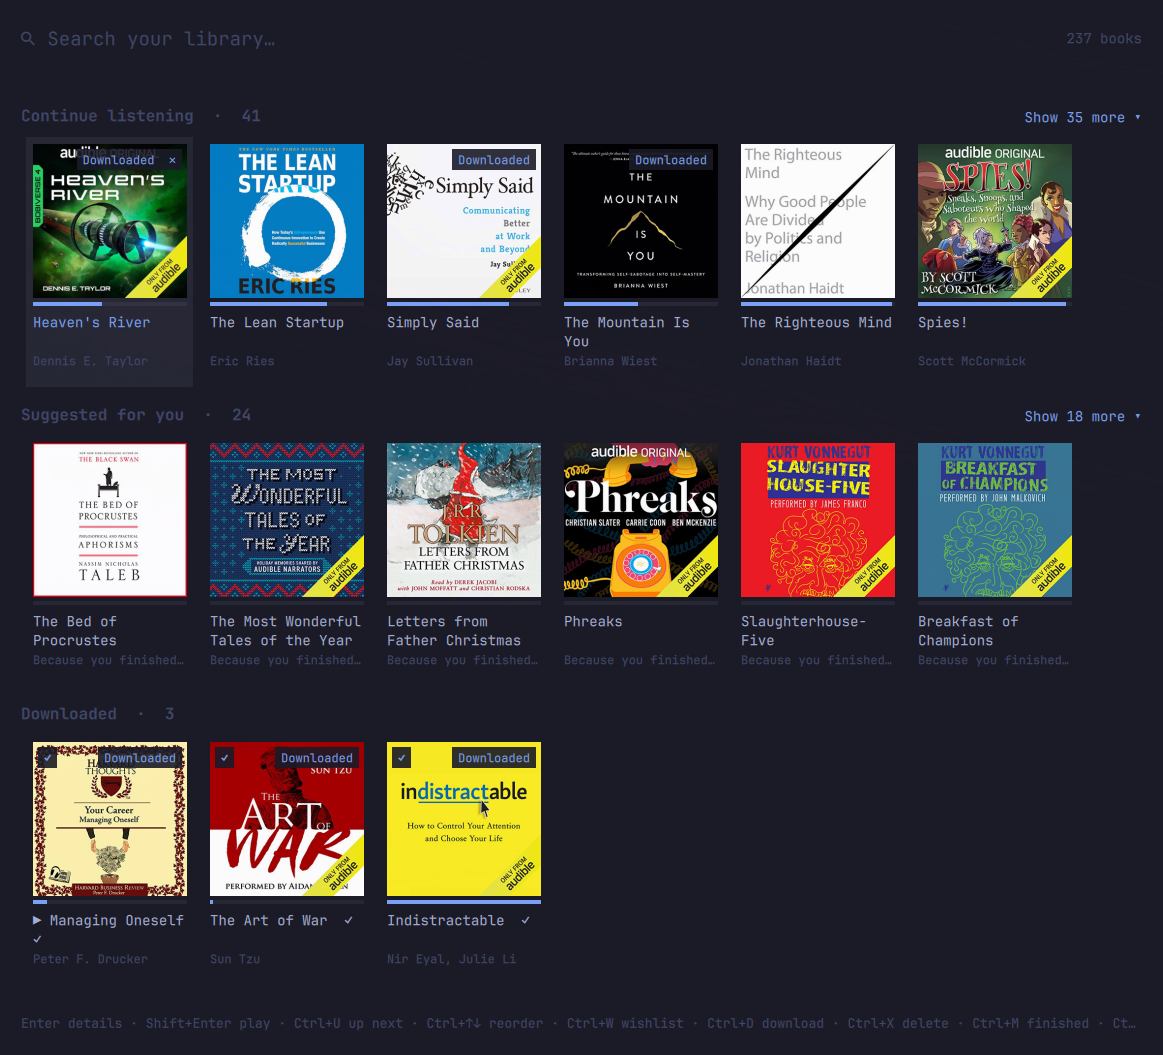
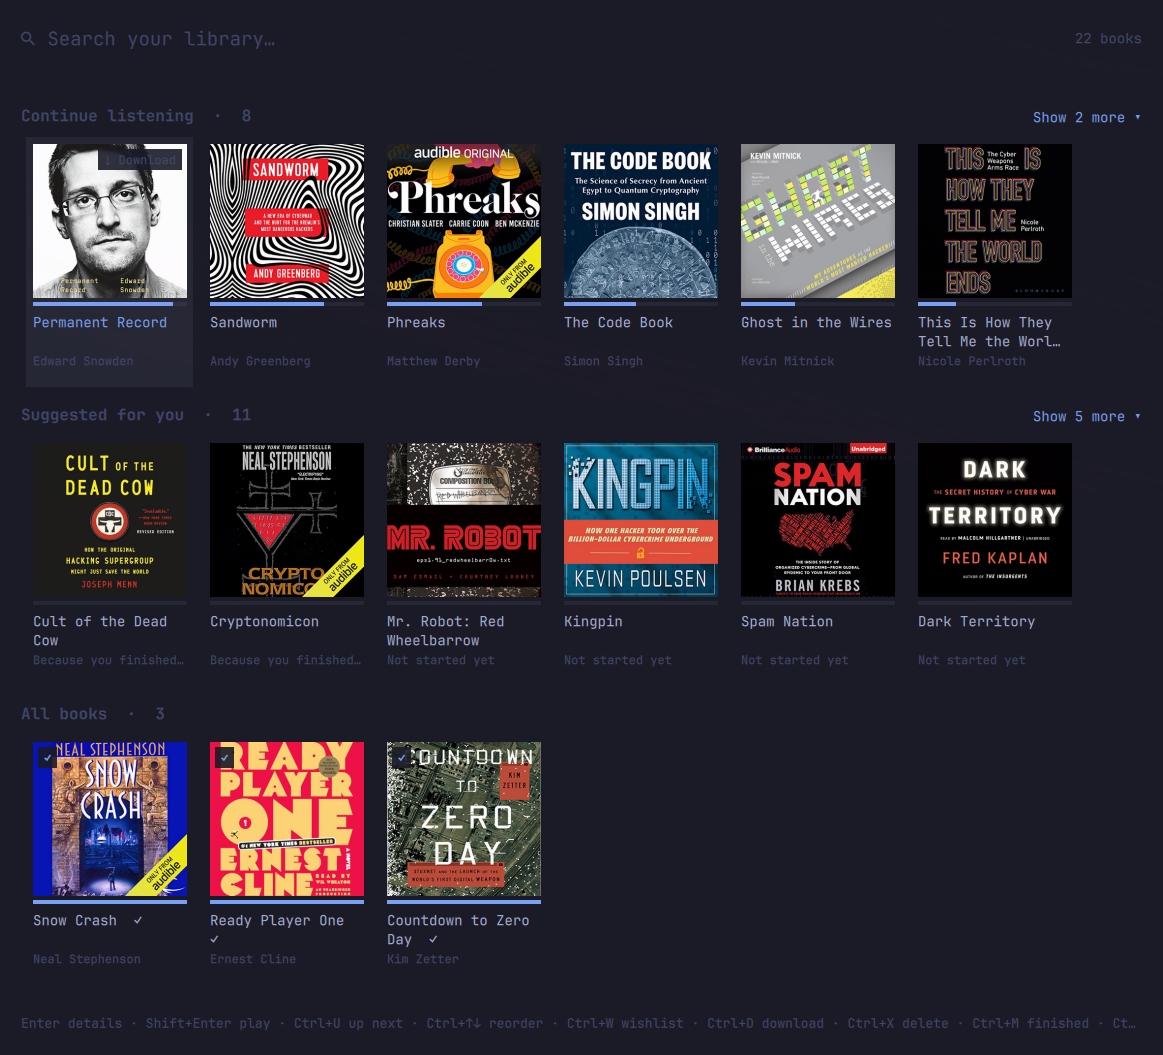
Docs: library screenshots use a sample library of hacker-culture books

diff --git a/README.md b/README.md
@@ -19,7 +19,7 @@ Not affiliated with Audible or Amazon.
 
 <p><img src="preview.png" alt="The player popup: book title, time left, progress with chapter ticks, speed and volume sliders, and the chapter list" width="360"></p>
 
-**The library.** Search at the top, then Continue listening, Suggested for you, and Downloaded. Press `Tab` to switch between the cover grid and a list.
+**The library.** (The library and details screens below show a sample library of hacker-culture books, not a real account.) Search at the top, then Continue listening, Suggested for you, and the rest of your books. Press `Tab` to switch between the cover grid and a list.
 
 <p><img src="docs/screenshots/library-grid.png" alt="The library as a cover grid with a search line and rows for continue listening, suggestions and downloads" width="760"></p>
 <p><img src="docs/screenshots/library-list.png" alt="The library as a list with progress bars" width="760"></p>
